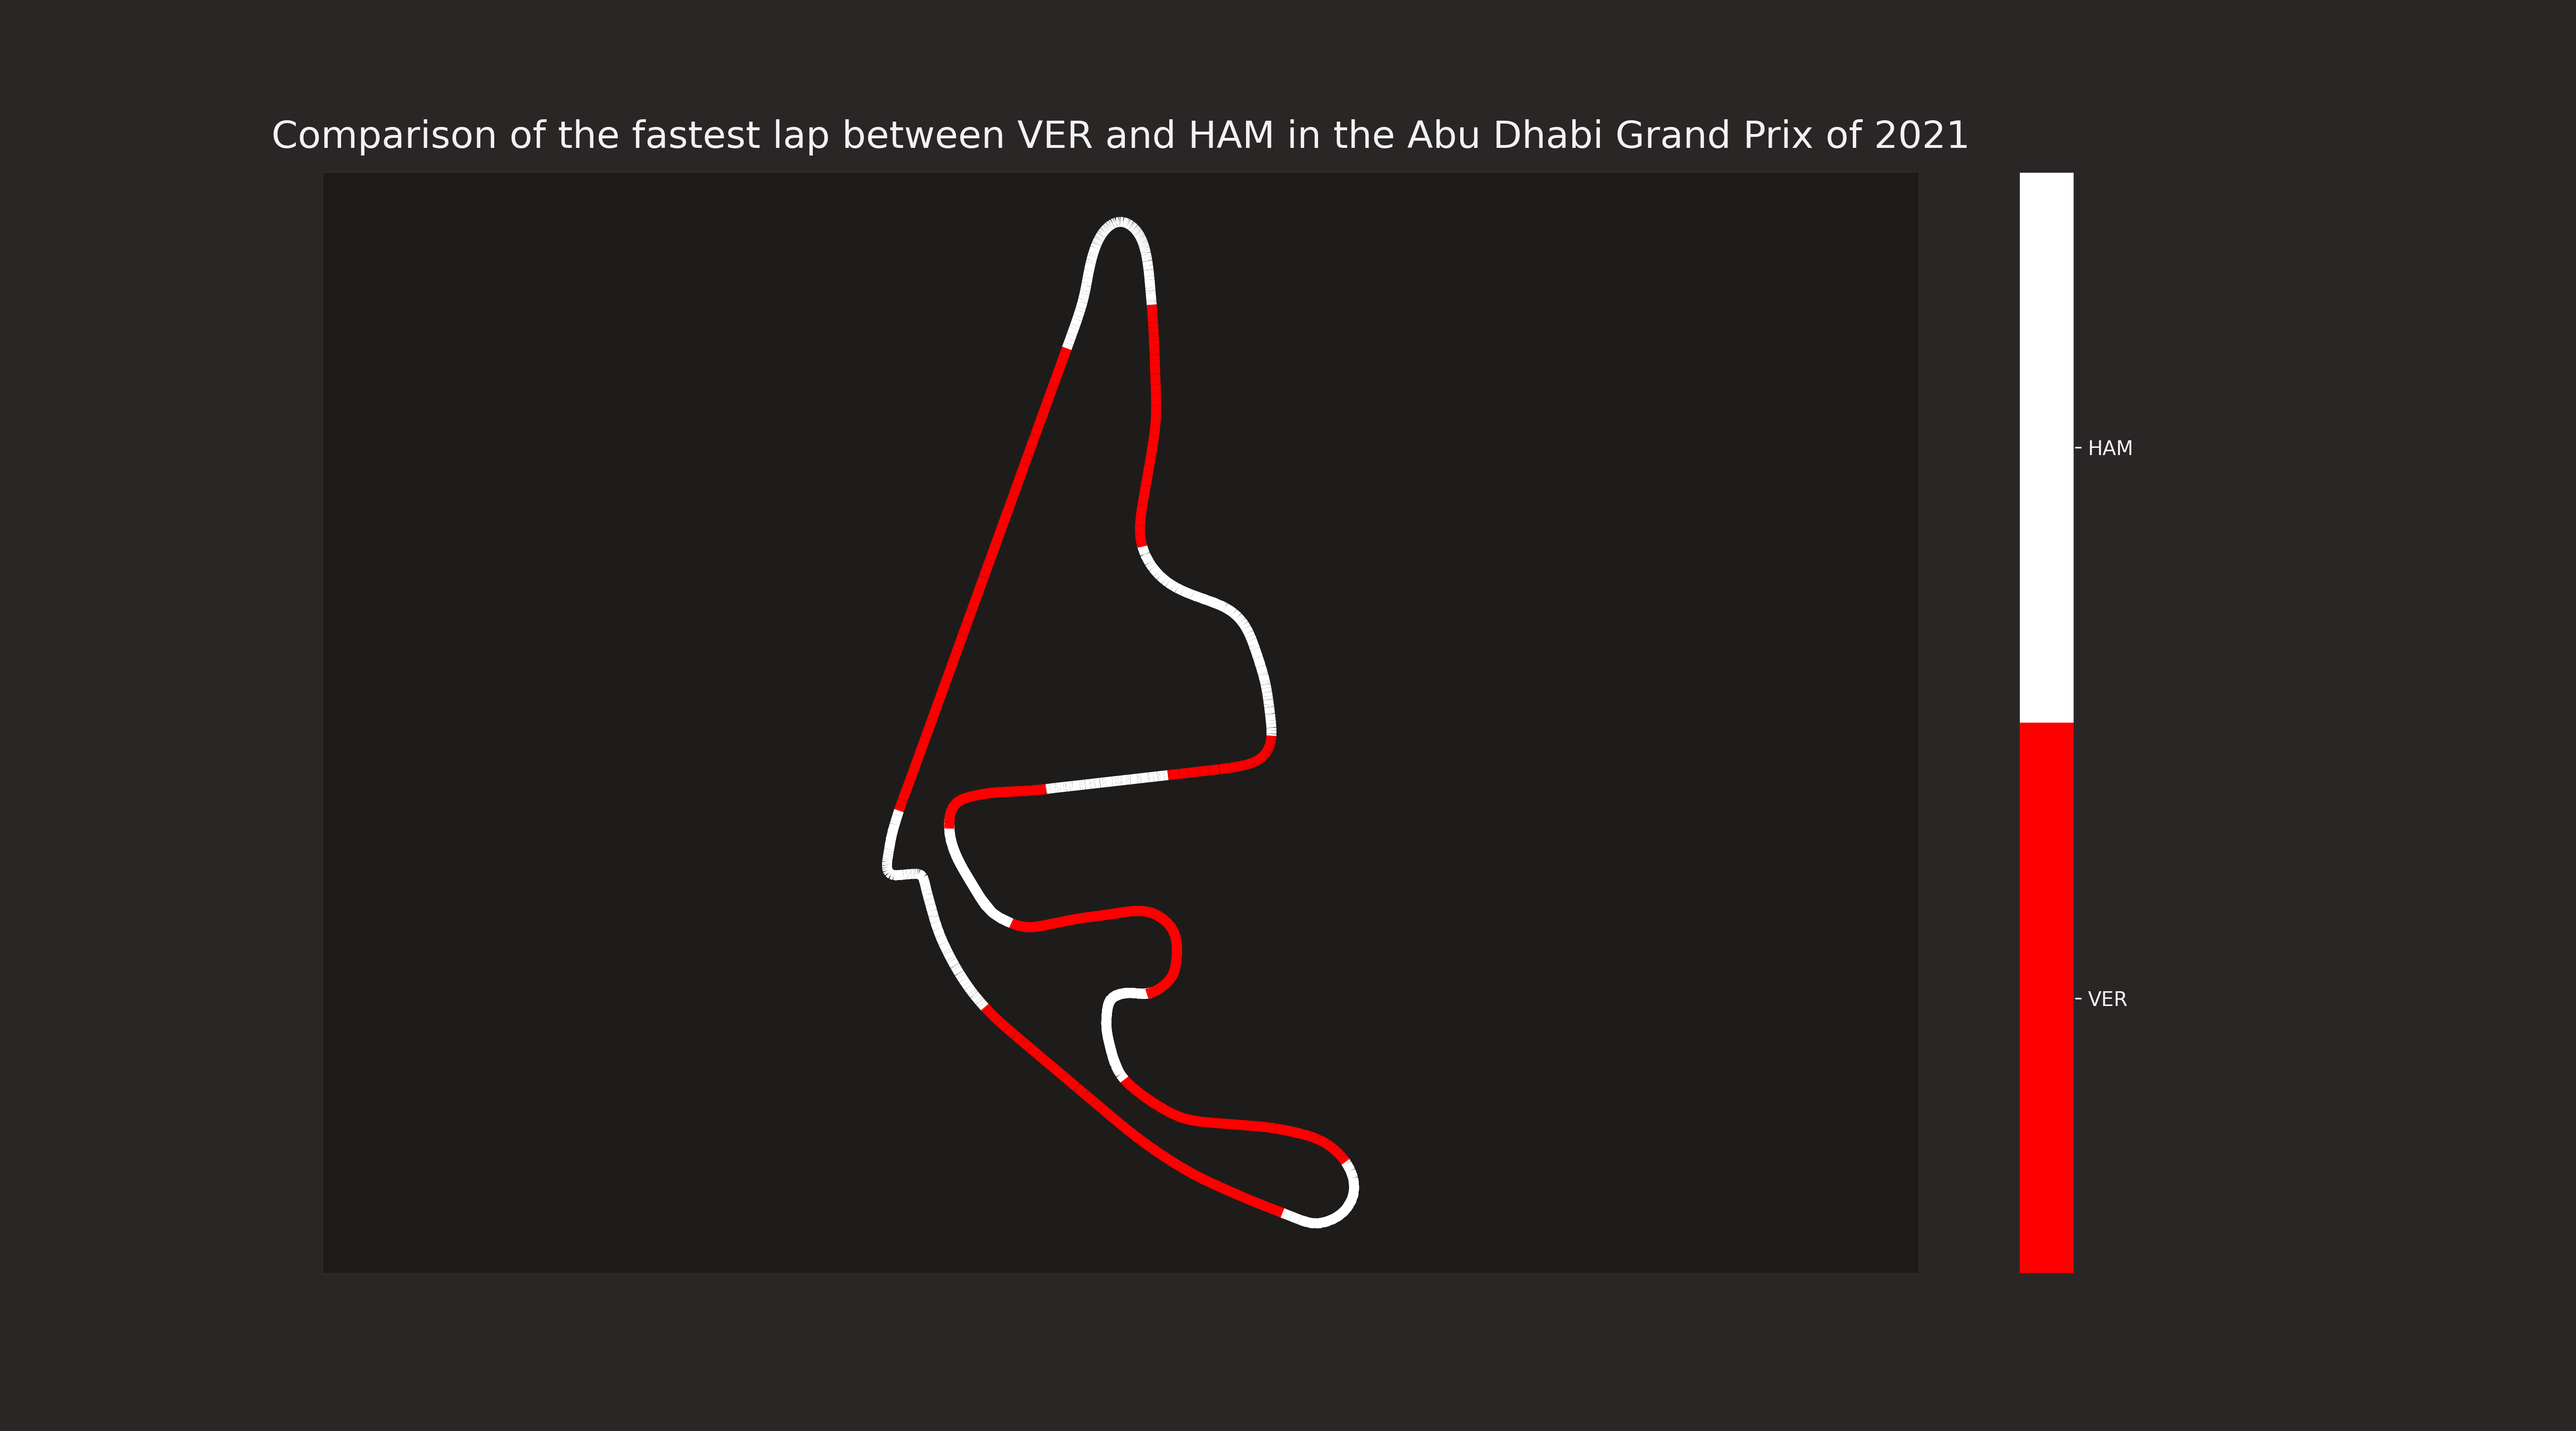
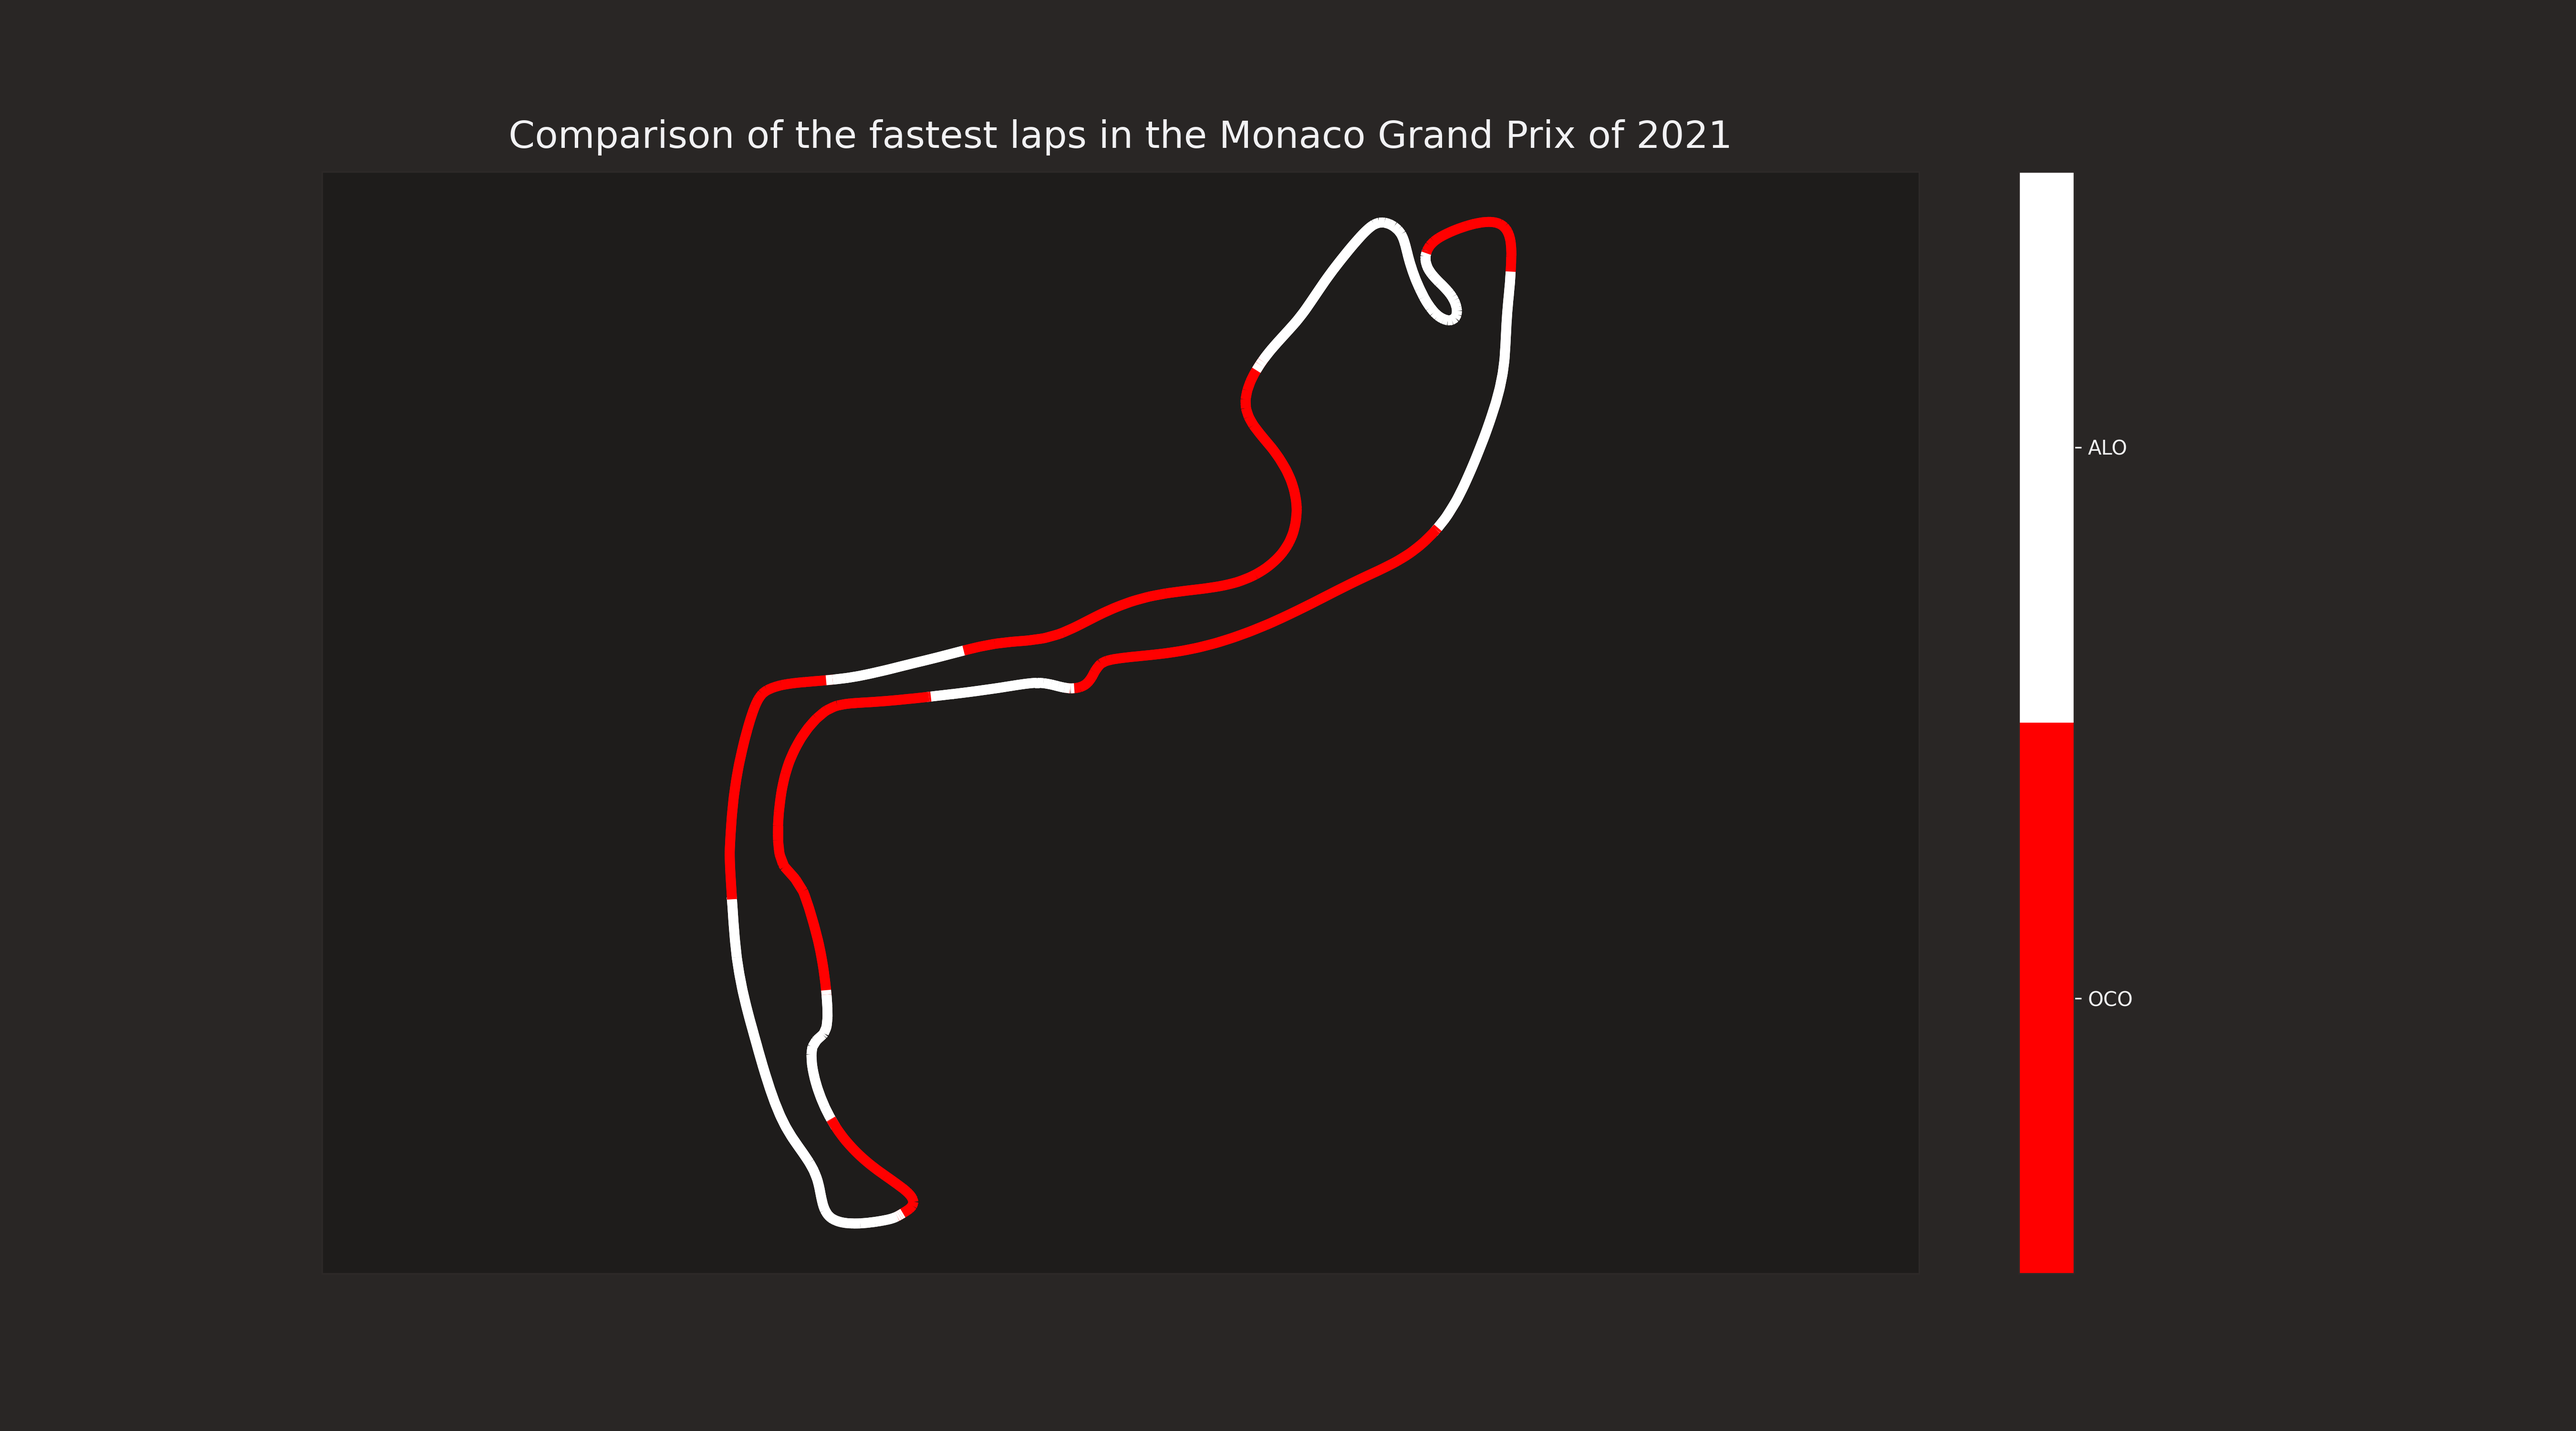
Refactorización OK. Siguiente Paso levantarlo con Flask

diff --git a/SideProjects/F1-MiniSectorGraph/refactorized.py b/SideProjects/F1-MiniSectorGraph/refactorized.py
@@ -110,14 +110,14 @@ def main():
     setup_plot()
 
     # Load session data
-    session = load_session(2021, 'Abu Dhabi', 'Q')
+    session = load_session(2021, 'Monaco', 'Q')
 
     # Get telemetry for both drivers
-    telemetry_ver = get_fastest_lap_telemetry(session, 'VER')
-    telemetry_ham = get_fastest_lap_telemetry(session, 'HAM')
+    telemetry_driver1 = get_fastest_lap_telemetry(session, 'ALO')
+    telemetry_driver2 = get_fastest_lap_telemetry(session, 'OCO')
 
     # Merge telemetry data
-    telemetry = pd.concat([telemetry_ver, telemetry_ham], ignore_index=True)
+    telemetry = pd.concat([telemetry_driver1, telemetry_driver2], ignore_index=True)
 
     # Calculate minisectors
     telemetry = calculate_minisectors(telemetry)
